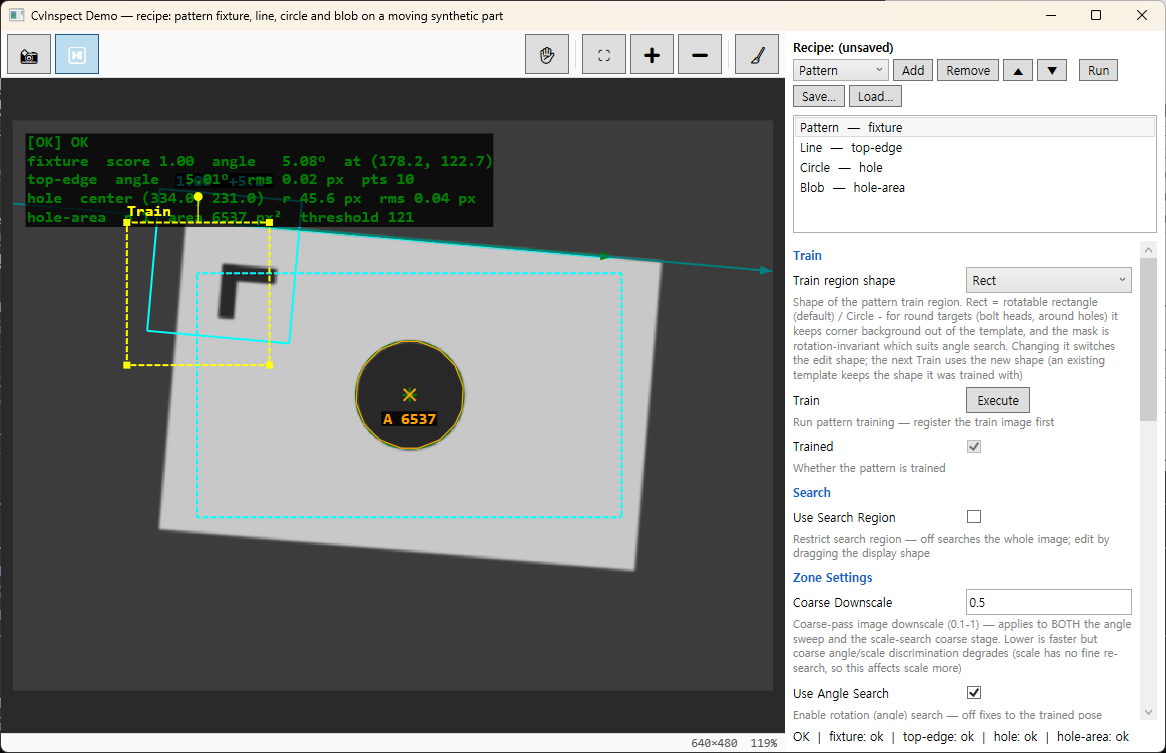
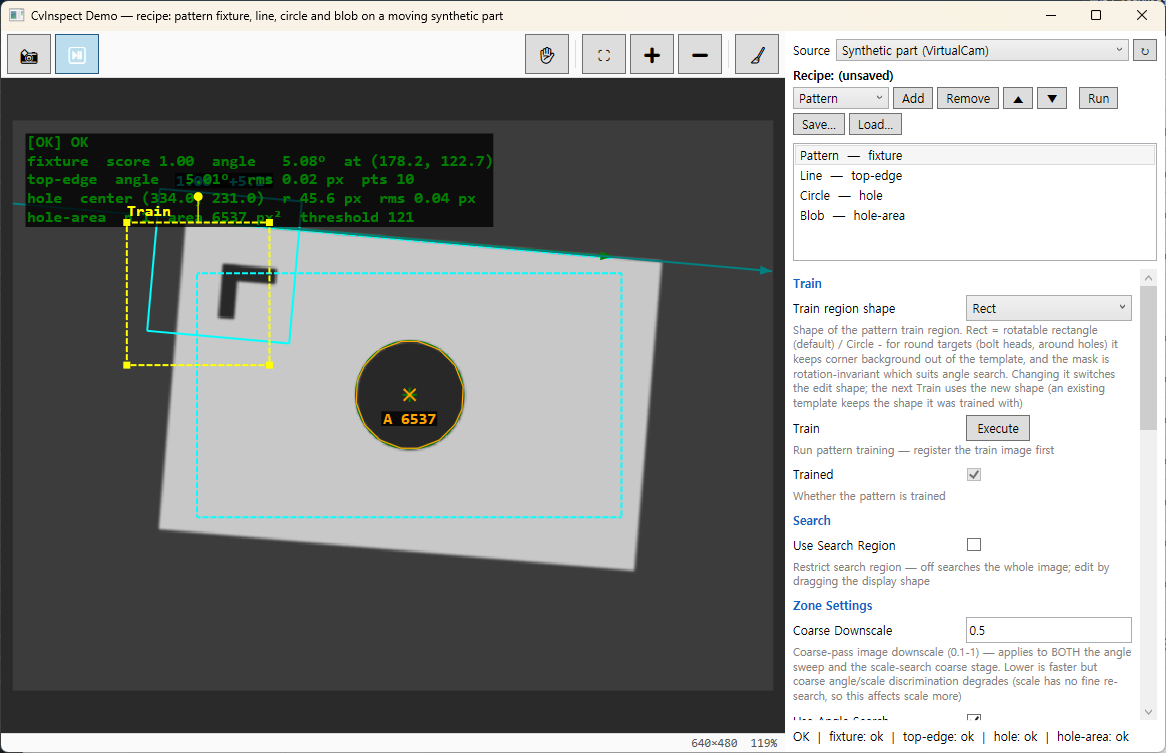
데모에 웹캠 소스를 더한다 — VID/PID 로 여는 라이브 카메라
Source 목록에 합성 부품(VirtualCam) 옆으로 이 PC 의 USB 웹캠이 이름·VID/PID 로 오른다(DemoSource).
고른 카메라는 인덱스가 아니라 CamOpt.SerialNumber(VID/PID, 같은 모델이 둘이면 인스턴스 ID)로 연다 —
OS 가 오늘 어떤 인덱스를 매겼든 같은 카메라다. ↻ 로 꽂거나 뺀 뒤 다시 열거, `--webcam [키]` 로 바로 시작.
- 열기는 초 단위(MSMF 첫 열기 ~1 s, 방금 닫은 장치 ~5 s)라 Task.Run 으로 UI 를 붙잡지 않는다.
- 30 fps 는 UI 가 밀리면 마지막 프레임만 처리한다(중간 프레임 버림).
- 라이브 카메라에서는 자동 학습을 하지 않는다 — 무엇이 보일지 모르니 사용자가 Train 으로.
- 실기(외장 UVC A16F:0304 한 대): 소스 전환·컬러 라이브 표시·레시피 20 ms/프레임·종료 정상.
  이 PC 에서는 ANY 가 MSMF 로 붙고 DSHOW 는 인덱스로 열리지 않았다 — 두 대짜리 PC 와 다르다.
  백엔드 가용성이 PC 마다 다르니 backend= 는 기본(any)을 두라고 UsbCamId 주석과 README Limits 에 적는다.
Wpf 회귀 16/16(소스 목록: 합성이 첫째, 웹캠은 식별자로 열림). 데모 README·스크린샷 갱신.

diff --git a/samples/CvInspect.Demo/MainWindow.xaml b/samples/CvInspect.Demo/MainWindow.xaml
@@ -22,6 +22,12 @@
 
     <DockPanel Grid.Column="1" Margin="8">
       <StackPanel DockPanel.Dock="Top">
+        <!-- 소스 — 합성 부품(VirtualCam) 또는 이 PC 의 USB 웹캠(VID/PID 로 연다). ↻ 는 꽂거나 뺀 뒤 다시 열거. -->
+        <DockPanel Margin="0,0,0,6">
+          <TextBlock Text="Source" VerticalAlignment="Center" Margin="0,0,6,0" />
+          <Button DockPanel.Dock="Right" Content="↻" Command="{Binding RefreshSourcesCommand}" ToolTip="Re-enumerate USB cameras" Padding="6,2" />
+          <ComboBox ItemsSource="{Binding Sources}" SelectedItem="{Binding SelectedSource}" DisplayMemberPath="Title" Margin="0,0,4,0" />
+        </DockPanel>
         <TextBlock Text="{Binding RecipeTitle}" FontWeight="Bold" />
         <WrapPanel Margin="0,4,0,4">
           <ComboBox x:Name="AddKind" ItemsSource="{Binding Kinds}" SelectedIndex="1" Width="96" Margin="0,0,4,4" />

diff --git a/samples/CvInspect.Demo/MainVm.cs b/samples/CvInspect.Demo/MainVm.cs
@@ -13,14 +13,16 @@ using OpenCvSharp;
 namespace CvInspect.Demo;
 
 /// <summary>
-/// 화면 VM — 취득(VirtualCam 이 합성 부품 여섯 장을 재생) → 표시(CamFrame 을 Frame 에 그대로) → 레시피 실행(AsMat 무복사 래핑) →
-/// 선택한 툴의 단계 이미지·도형·오버레이. 프레임은 CamFrame 으로만 들고 다닌다: 수명 계약이 없어 카메라 스레드에서 받아
-/// UI 로 넘겨도, 편집 뒤 다시 검사하려고 붙잡아 둬도 신경 쓸 것이 없다. Mat 은 쓰는 순간에만 잠깐 만든다.
-/// 레시피는 툴 목록으로 편집하고 폴더에 저장·로드한다 — 바뀐 뒤 저장하지 않았으면 제목에 * 가 붙는다.
+/// 화면 VM — 취득(합성 부품을 재생하는 VirtualCam, 또는 이 PC 의 USB 웹캠) → 표시(CamFrame 을 Frame 에 그대로) →
+/// 레시피 실행(AsMat 무복사 래핑) → 선택한 툴의 단계 이미지·도형·오버레이. 프레임은 CamFrame 으로만 들고 다닌다:
+/// 수명 계약이 없어 카메라 스레드에서 받아 UI 로 넘겨도, 편집 뒤 다시 검사하려고 붙잡아 둬도 신경 쓸 것이 없다.
+/// Mat 은 쓰는 순간에만 잠깐 만든다. 레시피는 툴 목록으로 편집하고 폴더에 저장·로드한다 — 바뀐 뒤 저장하지 않았으면 제목에 * 가 붙는다.
+/// 소스는 목록에서 바꾼다; 웹캠은 30 fps 로 들어오므로 UI 스레드가 밀리면 마지막 프레임만 처리한다(중간 프레임은 버린다).
 /// </summary>
 public sealed partial class MainVm : ObservableObject, IDisposable
 {
     public IReadOnlyList<DemoToolKind> Kinds { get; } = Enum.GetValues<DemoToolKind>();
+    public ObservableCollection<DemoSource> Sources { get; } = [];
 
     [ObservableProperty] private object? _frame;
     [ObservableProperty] private ViOverlay? _overlay;
@@ -29,6 +31,7 @@ public sealed partial class MainVm : ObservableObject, IDisposable
     [ObservableProperty] private bool _isLive;
     [ObservableProperty] private string _status = "";
     [ObservableProperty] private DemoToolEntry? _selectedTool;
+    [ObservableProperty] private DemoSource? _selectedSource;
     [ObservableProperty] [NotifyPropertyChangedFor(nameof(RecipeTitle))] private bool _isDirty;
     [ObservableProperty] [NotifyPropertyChangedFor(nameof(RecipeTitle))] private string? _recipePath;
 
@@ -38,8 +41,12 @@ public sealed partial class MainVm : ObservableObject, IDisposable
     public ObservableCollection<DemoToolEntry> Tools => _recipe.Tools;
 
     private readonly Dictionary<DemoToolEntry, IReadOnlyList<CvEditShape>> _shapeCache = new();
-    private readonly ICam _cam;
+    private readonly string _syntheticDir;
+    private ICam? _cam;
+    private bool _autoTrain;
     private CamFrame? _last;
+    private CamFrame? _pending;
+    private int _showQueued;
     private DemoRunResult? _lastRun;
 
     public MainVm()
@@ -49,24 +56,119 @@ public sealed partial class MainVm : ObservableObject, IDisposable
 
         // 합성 부품 이미지를 파일로 두고 VirtualCam 이 그 폴더를 재생한다 — 실제 카메라와 같은 ICam 경로를 탄다.
         // 여섯 장은 부품이 조금씩 밀리고 도는 장면이다(첫 장은 기준 자세). 라이브로 돌리면 픽스처가 따라가는 것이 보인다.
-        var dir = Path.Combine(Path.GetTempPath(), "CvInspect.Demo");
-        Directory.CreateDirectory(dir);
-        foreach (var f in Directory.GetFiles(dir, "part*.png")) File.Delete(f);
+        _syntheticDir = Path.Combine(Path.GetTempPath(), "CvInspect.Demo");
+        Directory.CreateDirectory(_syntheticDir);
+        foreach (var f in Directory.GetFiles(_syntheticDir, "part*.png")) File.Delete(f);
         var poses = new (double Dx, double Dy, double Deg)[] { (0, 0, 0), (14, -9, 5), (-12, 11, -7), (18, 16, 9), (-9, -15, -4), (6, 4, 12) };
         for (var i = 0; i < poses.Length; i++)
         {
             using var img = DemoImage.Create(poses[i].Dx, poses[i].Dy, poses[i].Deg);
             Cv2.ImEncode(".png", img, out var png);   // 경로 기반 ImWrite 는 비ASCII 경로에서 조용히 실패한다 — 바이트로 쓴다
-            File.WriteAllBytes(Path.Combine(dir, $"part_{i:00}.png"), png);
+            File.WriteAllBytes(Path.Combine(_syntheticDir, $"part_{i:00}.png"), png);
         }
-        _cam = CamFactory.Create(new CamOpt { Name = "demo", ComType = "Virtual", VirtualImageDir = dir, IsColor = false, FrameRate = 2 });
-        _cam.FrameAcquired += (_, f) => Application.Current.Dispatcher.BeginInvoke(() => Show(f));
-        _cam.GrabbingChanged += (_, g) => Application.Current.Dispatcher.BeginInvoke(() => IsLive = g);
-        _cam.Open();
 
         SelectedTool = Tools.FirstOrDefault();
-        _cam.StartContinuous();   // 첫 프레임(기준 자세)에서 자동 학습되고, 이어지는 프레임에서 부품이 움직인다 — 툴바 ⏯ 로 멈춘다
+        RefreshSources();
+        SelectedSource = PickStartupSource(Environment.GetCommandLineArgs());   // 소스 선택이 취득을 시작한다(첫 프레임에서 합성은 자동 학습)
     }
+
+    /// <summary>--webcam 또는 --webcam VID_xxxx&amp;PID_yyyy(인스턴스 ID 도 됨) 로 시작하면 그 웹캠으로 바로 연다. 없으면 합성.</summary>
+    private DemoSource? PickStartupSource(string[] args)
+    {
+        var i = Array.FindIndex(args, a => a.StartsWith("--webcam", StringComparison.OrdinalIgnoreCase));
+        if (i < 0) return Sources.FirstOrDefault();
+        var key = args[i].Length > "--webcam".Length ? args[i].Substring("--webcam".Length).TrimStart('=', ':')
+                : i + 1 < args.Length && !args[i + 1].StartsWith("--", StringComparison.Ordinal) ? args[i + 1] : "";
+        var webcams = Sources.Where(s => !s.IsSynthetic).ToList();
+        var hit = key.Length == 0 ? webcams.FirstOrDefault()
+                : webcams.FirstOrDefault(s => s.Key.Contains(key, StringComparison.OrdinalIgnoreCase) || s.Title.Contains(key, StringComparison.OrdinalIgnoreCase));
+        if (hit is null) Status = webcams.Count == 0 ? "--webcam: no USB camera was enumerated on this PC" : $"--webcam: no camera matches '{key}'";
+        return hit ?? Sources.FirstOrDefault();
+    }
+
+    // --- 소스 ---
+    /// <summary>웹캠을 다시 열거한다(꽂거나 뺀 뒤). 선택은 같은 식별자가 있으면 유지한다.</summary>
+    [RelayCommand]
+    private void RefreshSources()
+    {
+        var keep = SelectedSource?.Key;
+        Sources.Clear();
+        foreach (var s in DemoSource.List(_syntheticDir)) Sources.Add(s);
+        if (keep is not null && SelectedSource is null)
+            SelectedSource = Sources.FirstOrDefault(s => s.Key == keep) ?? Sources.FirstOrDefault();
+    }
+
+    partial void OnSelectedSourceChanged(DemoSource? value) => StartSource(value);
+
+    private void StartSource(DemoSource? src)
+    {
+        StopCam();
+        _last = null;
+        _lastRun?.Dispose();
+        _lastRun = null;
+        Frame = null;
+        Overlay = null;
+        if (src is null) return;
+
+        _autoTrain = src.IsSynthetic;   // 라이브 카메라에서는 무엇이 보일지 모른다 — 학습은 사용자가 Train 으로
+        var cam = CamFactory.Create(src.Opt);
+        cam.FrameAcquired += OnFrameAcquired;
+        cam.GrabbingChanged += OnGrabbingChanged;
+        _cam = cam;
+        Status = $"opening {src.Title}…";
+        // 웹캠 열기는 초 단위로 걸릴 수 있다(MSMF 첫 열기 ~1 s, 방금 닫은 장치는 더) — UI 를 붙잡지 않는다.
+        // 못 열면 예외 메시지에 지금 열거된 장치 목록이 실린다.
+        Task.Run(() =>
+        {
+            try
+            {
+                cam.Open();
+                cam.StartContinuous();
+                return null;
+            }
+            catch (Exception ex)
+            {
+                return ex.Message;
+            }
+        }).ContinueWith(t =>
+        {
+            if (!ReferenceEquals(_cam, cam)) return;   // 그 사이 다른 소스로 바뀜
+            Status = t.Result is null ? $"source: {src.Title}" : $"cannot open {src.Title}: {t.Result}";
+        }, TaskScheduler.FromCurrentSynchronizationContext());
+    }
+
+    private void StopCam()
+    {
+        if (_cam is not { } cam) return;
+        _cam = null;
+        cam.FrameAcquired -= OnFrameAcquired;
+        cam.GrabbingChanged -= OnGrabbingChanged;
+        try
+        {
+            cam.StopContinuous();
+        }
+        finally
+        {
+            cam.Dispose();
+        }
+        IsLive = false;
+    }
+
+    /// <summary>카메라 스레드 → UI. 처리가 밀리면 마지막 프레임만 남긴다 — 30 fps 웹캠에서 큐가 자라지 않게.</summary>
+    private void OnFrameAcquired(object? sender, CamFrame frame)
+    {
+        Interlocked.Exchange(ref _pending, frame);
+        if (Interlocked.Exchange(ref _showQueued, 1) == 0)
+            Application.Current.Dispatcher.BeginInvoke(() =>
+            {
+                Interlocked.Exchange(ref _showQueued, 0);
+                var f = Interlocked.Exchange(ref _pending, null);
+                if (f is not null && ReferenceEquals(_cam, sender)) Show(f);
+            });
+    }
+
+    private void OnGrabbingChanged(object? sender, bool grabbing)
+        => Application.Current.Dispatcher.BeginInvoke(() => { if (ReferenceEquals(_cam, sender)) IsLive = grabbing; });
 
     partial void OnSelectedToolChanged(DemoToolEntry? value)
     {
@@ -86,9 +188,9 @@ public sealed partial class MainVm : ObservableObject, IDisposable
     }
 
     // --- 카메라 ---
-    [RelayCommand] private void Grab() => _cam.GrabOne();
-    [RelayCommand] private void Live() => _cam.StartContinuous();
-    [RelayCommand] private void Stop() => _cam.StopContinuous();
+    [RelayCommand] private void Grab() => _cam?.GrabOne();
+    [RelayCommand] private void Live() => _cam?.StartContinuous();
+    [RelayCommand] private void Stop() => _cam?.StopContinuous();
 
     /// <summary>우클릭 불러오기 — 받은 Mat 은 수신자 소유. CamFrame 으로 실체화한 뒤 바로 놓는다.</summary>
     [RelayCommand]
@@ -197,13 +299,14 @@ public sealed partial class MainVm : ObservableObject, IDisposable
     private void Show(CamFrame frame)
     {
         _last = frame;
-        // 첫 프레임(기준 자세)으로 학습 안 된 패턴 툴을 한 번 자동 학습 — 켜자마자 픽스처가 도는 것을 보이기 위해.
-        foreach (var t in Tools)
-            if (t.Opt is CvPatternOpt { Trained: false })
-            {
-                using var m = frame.AsMat();
-                DemoRecipeRunner.Train(_recipe, t, m);
-            }
+        // 합성 소스의 첫 프레임(기준 자세)으로 학습 안 된 패턴 툴을 한 번 자동 학습 — 켜자마자 픽스처가 도는 것을 보이기 위해.
+        if (_autoTrain)
+            foreach (var t in Tools)
+                if (t.Opt is CvPatternOpt { Trained: false })
+                {
+                    using var m = frame.AsMat();
+                    DemoRecipeRunner.Train(_recipe, t, m);
+                }
         Rerun();
     }
 
@@ -232,8 +335,7 @@ public sealed partial class MainVm : ObservableObject, IDisposable
 
     public void Dispose()
     {
-        _cam.StopContinuous();
-        _cam.Dispose();
+        StopCam();
         _lastRun?.Dispose();
     }
 }

diff --git a/samples/CvInspect.Demo/DemoSource.cs b/samples/CvInspect.Demo/DemoSource.cs
@@ -1,0 +1,53 @@
+using CvInspect.Imaging;
+
+namespace CvInspect.Demo;
+
+/// <summary>
+/// 데모가 고를 수 있는 프레임 소스 하나 — 합성 부품(VirtualCam 폴더 재생) 또는 이 PC 의 USB 웹캠.
+/// 웹캠은 인덱스가 아니라 VID/PID(같은 모델이 둘이면 인스턴스 ID)를 <see cref="CamOpt.SerialNumber"/> 에 넣어 연다 —
+/// OS 가 오늘 어떤 인덱스를 매겼든 같은 카메라가 잡힌다. 실제 카메라와 합성 소스가 같은 <see cref="ICam"/> 경로를 탄다.
+/// </summary>
+public sealed class DemoSource
+{
+    private DemoSource(string key, string title, CamOpt opt, bool isSynthetic)
+    {
+        Key = key;
+        Title = title;
+        Opt = opt;
+        IsSynthetic = isSynthetic;
+    }
+
+    /// <summary>명령줄·선택 유지에 쓰는 식별자 — 합성은 "synthetic", 웹캠은 VID/PID 또는 인스턴스 ID.</summary>
+    public string Key { get; }
+    public string Title { get; }
+    public CamOpt Opt { get; }
+    public bool IsSynthetic { get; }
+
+    /// <summary>합성 소스 먼저, 그 다음 열거된 웹캠. 열거가 안 되는 OS 에서는 합성만 돌려준다.</summary>
+    public static IReadOnlyList<DemoSource> List(string syntheticDir)
+    {
+        var list = new List<DemoSource>
+        {
+            new("synthetic", "Synthetic part (VirtualCam)",
+                new CamOpt { Name = "demo", ComType = "Virtual", VirtualImageDir = syntheticDir, IsColor = false, FrameRate = 2 }, isSynthetic: true),
+        };
+        IReadOnlyList<UsbCamInfo> cams;
+        try
+        {
+            cams = UsbCamId.Enumerate();
+        }
+        catch (Exception ex) when (ex is PlatformNotSupportedException or NotSupportedException)
+        {
+            return list;
+        }
+        foreach (var cam in cams)
+        {
+            if (cam.VendorId.Length == 0) continue;   // VID/PID 없는 장치는 고정 식별이 안 된다 — 목록에서 뺀다
+            var dup = cams.Count(x => x.VendorId == cam.VendorId && x.ProductId == cam.ProductId) > 1;
+            var key = dup ? cam.InstanceId : cam.VidPid;
+            list.Add(new(key, $"#{cam.Index} {cam.Name} ({cam.VidPid})",
+                new CamOpt { Name = cam.Name, ComType = "Webcam", SerialNumber = key, IsColor = true, FrameRate = 30 }, isSynthetic: false));
+        }
+        return list;
+    }
+}

diff --git a/src/CvInspect.Imaging/Clients/UsbCamId.cs b/src/CvInspect.Imaging/Clients/UsbCamId.cs
@@ -26,7 +26,10 @@ public sealed record UsbCamInfo(int Index, string Name, string VendorId, string 
 ///
 /// <b>검증 상태.</b> Windows: 서로 다른 모델 두 대(내장 + 외장)를 꽂은 Windows 11 PC 에서 이 이식본으로 실측 — SetupAPI 열거
 /// 순번이 ANY·DSHOW·MSMF 세 백엔드 모두에서 OpenCV 인덱스와 일치했고 VID/PID 로 연 것이 그 카메라였다(원형도 웹캠 두 대짜리
-/// 설비에서 실증됐고, WMI 의 순서는 맞지 않았다). 같은 모델 두 대(인스턴스 ID 경로)와 핫 재연결은 아직 안 쟀다.
+/// 설비에서 실증됐고, WMI 의 순서는 맞지 않았다). 다른 Windows 11 PC(외장 한 대)에서는 ANY 가 MSMF 로 붙어 식별 열기가
+/// 정상이었지만 <b>DSHOW 는 인덱스로 열리지 않았다</b>("backend is generally available but can't be used to capture by
+/// index") — 백엔드 가용성은 PC 마다 다르니 <c>backend=</c> 는 실측 없이 고정하지 말고 기본(any)을 둔다. 그 PC 에서 MSMF 는
+/// 첫 열기 ~1 s, 방금 닫은 장치 재열기 ~5 s 였다. 같은 모델 두 대(인스턴스 ID 경로)와 핫 재연결은 아직 안 쟀다.
 /// Linux: 하드웨어에서 돌려 보지 않았다 — 합성 sysfs 트리 회귀만 있다. macOS: 미지원(예외).
 /// </summary>
 public static class UsbCamId

diff --git a/tests/CvInspect.Wpf.Tests/DemoSourceTests.cs b/tests/CvInspect.Wpf.Tests/DemoSourceTests.cs
@@ -1,0 +1,25 @@
+// 데모 소스 목록 — 합성 소스가 항상 첫째이고, 열거된 웹캠은 고정 식별자(VID/PID 또는 인스턴스 ID)로 열리게 만들어지는지.
+// 카메라가 없는 러너에서는 합성 하나만 있어야 한다.
+using System.IO;
+using CvInspect.Demo;
+using CvInspect.Imaging;
+using Xunit;
+
+namespace CvInspect.Wpf.Tests;
+
+public class DemoSourceTests
+{
+    [Fact]
+    public void SyntheticFirstAndWebcamsCarryAFixedIdentity()
+    {
+        var list = DemoSource.List(Path.GetTempPath());
+        Assert.True(list.Count >= 1 && list[0].IsSynthetic && list[0].Key == "synthetic" && list[0].Opt.ComType == "Virtual", "the synthetic part is always the first source");
+        foreach (var s in list.Skip(1))
+        {
+            Assert.True(!s.IsSynthetic && s.Opt.ComType == "Webcam" && s.Opt.IsColor, $"'{s.Title}' opens as a colour webcam");
+            Assert.True(UsbCamId.TryParse(s.Opt.SerialNumber, out _, out _, out _), $"'{s.Title}' is opened by identity, not by index: SerialNumber='{s.Opt.SerialNumber}'");
+            Assert.Equal(s.Key, s.Opt.SerialNumber);
+        }
+        Assert.Equal(list.Count, list.Select(s => s.Key).Distinct().Count());
+    }
+}

diff --git a/samples/CvInspect.Demo/README.md b/samples/CvInspect.Demo/README.md
@@ -36,6 +36,13 @@ what the tool actually sees. Each tool's result is mapped back through `CvSpaceM
 of every tool lands on whichever stage is displayed — and a fixture found in one stage still moves
 tools in another.
 
+**Live webcam.** The *Source* box lists every USB camera on the PC by name and VID/PID (`UsbCamId`) next to
+the synthetic part, and opens the one you pick through `CamOpt.SerialNumber` — so it is the same camera
+no matter which OpenCV index it got today. Frames arrive in colour at 30 fps; the tools see them grey, and
+when the UI falls behind only the newest frame is processed. Nothing is trained automatically on a live
+camera: drag the yellow train box onto a feature of your object, press **Train**, then move the object —
+the fixture follows it, and the cyan geometry with it.
+
 **The recipe folder.** *Save…* writes a folder: `Recipe.json` (order, keys, kinds), one `{key}.json`
 per tool (the option POCO as-is, enums as strings) and `{key}.Template.png` for each trained
 pattern — readable and diffable, no binary blob. *Load…* brings it back including the trained
@@ -58,6 +65,9 @@ template, and the loaded recipe produces the identical run. An unsaved change pu
 - **Edit a parameter** in the right pane (calipers, search length, polarity, gates) — every
   commit re-runs the recipe. Hover a label for its description.
 - **Right-click → Load image** to inspect a file of your own; 8-bit 1/3/4-channel formats only.
+- **Source → your webcam**, then teach the fixture on something in view and move it. Press **↻** after
+  plugging a camera in. `CvInspect.Demo.exe --webcam` starts straight into the first camera,
+  `--webcam VID_046D&PID_0825` (or an instance id) into that one.
 - On the pattern tool, drag the train box somewhere featureless and press Train to see the
   refusal. The blob tool reports every blob above `MinArea` — count, area, centroid and contour —
   not just the largest.
@@ -72,7 +82,8 @@ attached to every [GitHub release](https://github.com/cmir79/CvInspect/releases/
 dotnet run --project samples/CvInspect.Demo
 ```
 
-Windows only (WPF). The recipe runner (`DemoRecipeRunner`) is pure and deterministic — the WPF test
+Windows only (WPF). A USB webcam is optional — without one the source list holds only the synthetic
+part. The recipe runner (`DemoRecipeRunner`) is pure and deterministic — the WPF test
 suite trains the default recipe on the reference part, runs it on a shifted-and-rotated one and checks
 that the pose angle, the followed line, circle and blob all land within a pixel of where the geometry
 went; saves and reloads a recipe and checks the run is identical; and runs a half-resolution stage to

diff --git a/README.md b/README.md
@@ -184,8 +184,8 @@ configure it to skip delegate-typed members.
 - `samples/CvInspect.Demo` ([README](https://github.com/cmir79/CvInspect/blob/main/samples/CvInspect.Demo/README.md),
   [screenshot](https://github.com/cmir79/CvInspect/blob/main/samples/CvInspect.Demo/screenshot.png),
   [download the exe](https://github.com/cmir79/CvInspect/releases/latest)) — a WPF window that wires
-  everything together as a recipe: `VirtualCam` playing a synthetic part that shifts and rotates,
-  `CvDispCtrl` showing the `CamFrame` directly, an ordered tool chain (preprocess, pattern, line,
+  everything together as a recipe: `VirtualCam` playing a synthetic part that shifts and rotates, or any
+  USB webcam on the PC opened by VID/PID through `CamOpt.SerialNumber`, `CvDispCtrl` showing the `CamFrame` directly, an ordered tool chain (preprocess, pattern, line,
   circle, blob) edited through draggable search shapes and the `CvPropEditCtrl` parameter editor, a
   pattern fixture (`CvPose`) that moves the tools below it onto the found part, preprocess stages whose
   results map back through `CvSpaceMap`, and recipe save/load as a plain folder of JSON plus the
@@ -227,8 +227,10 @@ Read these before adopting — they are real, and they are not going away soon.
   Bgra32; 16-bit sensor data is folded to 8 bits at the adapter. Individual core tools may accept
   other depths, but nothing around them does.
 - **USB webcam identity is verified on Windows only.** `CamOpt.SerialNumber` selects a webcam by VID/PID or
-  instance id; the Windows path was checked on one two-camera PC (different models, three backends), the
-  Linux path has no hardware run at all, and macOS is unsupported.
+  instance id; the Windows path was checked on a two-camera PC (different models, three backends) and a
+  one-camera PC, the Linux path has no hardware run at all, and macOS is unsupported. Backend availability
+  differs per PC: on the one-camera PC the DirectShow backend could not open the camera by index at all
+  while Media Foundation (what `any` picks) could — leave `backend=` at its default unless you have measured.
 - **Display is WPF, so Windows only.** The core and Imaging packages are cross-platform; the WPF
   package and its off-screen test suite build on Windows alone.
 - **GigE has hours, not years, behind it.** Two cameras from two vendors have been streamed
